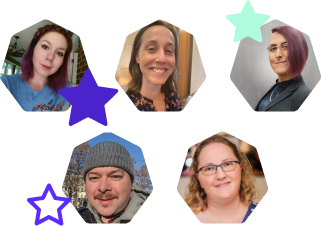
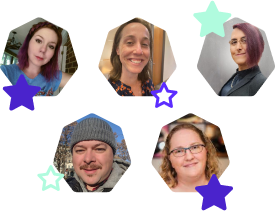
AR small changes

diff --git a/web/wp-content/themes/lf-theme/source/scss/annual-report-2021.scss b/web/wp-content/themes/lf-theme/source/scss/annual-report-2021.scss
@@ -1135,8 +1135,8 @@ $ar-gray-900: #414141;
 			height: 80px;
 			background-size: 94px 80px;
 			@media (min-width: 1000px) {
-				bottom: 0px;
-				left: -28px;
+				bottom: 10px;
+				left: -20px;
 				width: 172px;
 				height: 141px;
 				background-size: 172px 141px;
@@ -1170,6 +1170,10 @@ $ar-gray-900: #414141;
 				margin-top: 40px;
 				margin-bottom: 40px;
 			}
+		}
+		&.no-spacing {
+			margin-top: 0px;
+			margin-bottom: 20px;
 		}
 	}
 

diff --git a/web/wp-content/themes/lf-theme/templates/annual-report-2021.php b/web/wp-content/themes/lf-theme/templates/annual-report-2021.php
@@ -1360,9 +1360,8 @@ Lf_Utils::display_responsive_images( 62498, 'large', '1200px', '', 'lazy' );
 					<div aria-hidden="true" class="ar-spacer-40 show-upto-700">
 					</div>
 
-					<img loading="lazy"
-						src="<?php Image::get_image('annual-reports/2021/certifications.png', true); ?>"
-						alt="Certification logos">
+					<img loading="lazy" src="<?php Image::get_svg('annual-reports/2021/certifications', true); ?>" alt="Certification logos">
+
 				</div>
 
 				<div aria-hidden="true" class="ar-spacer-120"></div>
@@ -1914,7 +1913,7 @@ Lf_Utils::display_responsive_images( 62498, 'large', '1200px', '', 'lazy' );
 					<div class="dei-grid">
 						<div>
 							<span
-								class="number-largest has-arrow-after text-purple lh-100">43%</span>
+								class="number-largest text-purple lh-100">43%</span>
 							<span class="text-green uppercase fw-bold block">of
 								keynotes at
 								Kubecon EU</span>
@@ -1922,7 +1921,7 @@ Lf_Utils::display_responsive_images( 62498, 'large', '1200px', '', 'lazy' );
 
 						<div>
 							<span
-								class="number-largest has-arrow-after text-purple lh-100">46%</span>
+								class="number-largest text-purple lh-100">46%</span>
 							<span class="text-green uppercase fw-bold block">of
 								keynotes at
 								Kubecon NA</span>
@@ -1942,7 +1941,7 @@ Lf_Utils::display_responsive_images( 62498, 'large', '1200px', '', 'lazy' );
 					<div class="dei-grid">
 						<div>
 							<span
-								class="number-largest has-arrow-after text-purple lh-100">685</span>
+								class="number-largest text-purple lh-100">685</span>
 							<span
 								class="text-green uppercase fw-bold block">Diversity
 								Recipients</span>
@@ -1950,7 +1949,7 @@ Lf_Utils::display_responsive_images( 62498, 'large', '1200px', '', 'lazy' );
 
 						<div>
 							<span
-								class="number-largest has-arrow-after text-purple lh-100">807</span>
+								class="number-largest text-purple lh-100">807</span>
 							<span
 								class="text-green uppercase fw-bold block">need-based
 								recipients</span>
@@ -2030,13 +2029,21 @@ Lf_Utils::display_responsive_images( 62498, 'large', '1200px', '', 'lazy' );
 					</div>
 
 					<div class="align-end">
+
+					<div class="icon">
+						<img loading="lazy"
+							src="<?php Image::get_svg('annual-reports/2021/icon-members.svg', true); ?>"
+							alt="People icon">
+					</div>
+
 						<p
 							class="text-medium fw-bold uppercase text-purple mb-20">"Chop Wood and Carry Water"</p>
 
-						<div class="icon-divider smaller"></div>
+						<div class="icon-divider no-spacing"></div>
 
-						<p
-							class="fw-bold">To recognize contributors who spend countless hours completing often mundane tasks, CNCF created the “Chop Wood and Carry Water” awards. CNCF was proud to acknowledge the amazing efforts of five individuals for their outstanding contributions in 2021: <strong><a href="https://twitter.com/TheMoxieFox">Emily Fox</a>, <a href="https://twitter.com/aevavoom">Aeva Black</a>, <a href="https://twitter.com/TashaDrew">Tasha Drew</a>, <a href="https://twitter.com/comedordexis">Carlos Panato</a>, <a href="https://twitter.com/carolynvs">Carolyn Van Slyck</a></strong>.</p>
+						<p>To recognize contributors who spend countless hours completing often mundane tasks, CNCF created the “Chop Wood and Carry Water” awards. CNCF was proud to acknowledge the amazing efforts of five individuals for their outstanding contributions in 2021:</p>
+
+						<p><strong><a href="https://twitter.com/TheMoxieFox">Emily Fox</a>, <a href="https://twitter.com/aevavoom">Aeva Black</a>, <a href="https://twitter.com/TashaDrew">Tasha Drew</a>, <a href="https://twitter.com/comedordexis">Carlos Panato</a>, <a href="https://twitter.com/carolynvs">Carolyn Van Slyck</a></strong>.</p>
 
 						<img loading="lazy"
 							src="<?php Image::get_svg('annual-reports/2021/community-chop.png', true); ?>"
@@ -2067,7 +2074,7 @@ Lf_Utils::display_responsive_images( 62498, 'large', '1200px', '', 'lazy' );
 
 
 				<div class="sub-section-header-container">
-					<h3 class="sub-section-header">Community<br
+					<h3 class="sub-section-header">Community <br
 							class="show-upto-700">Groups 2021</h3>
 				</div>
 
